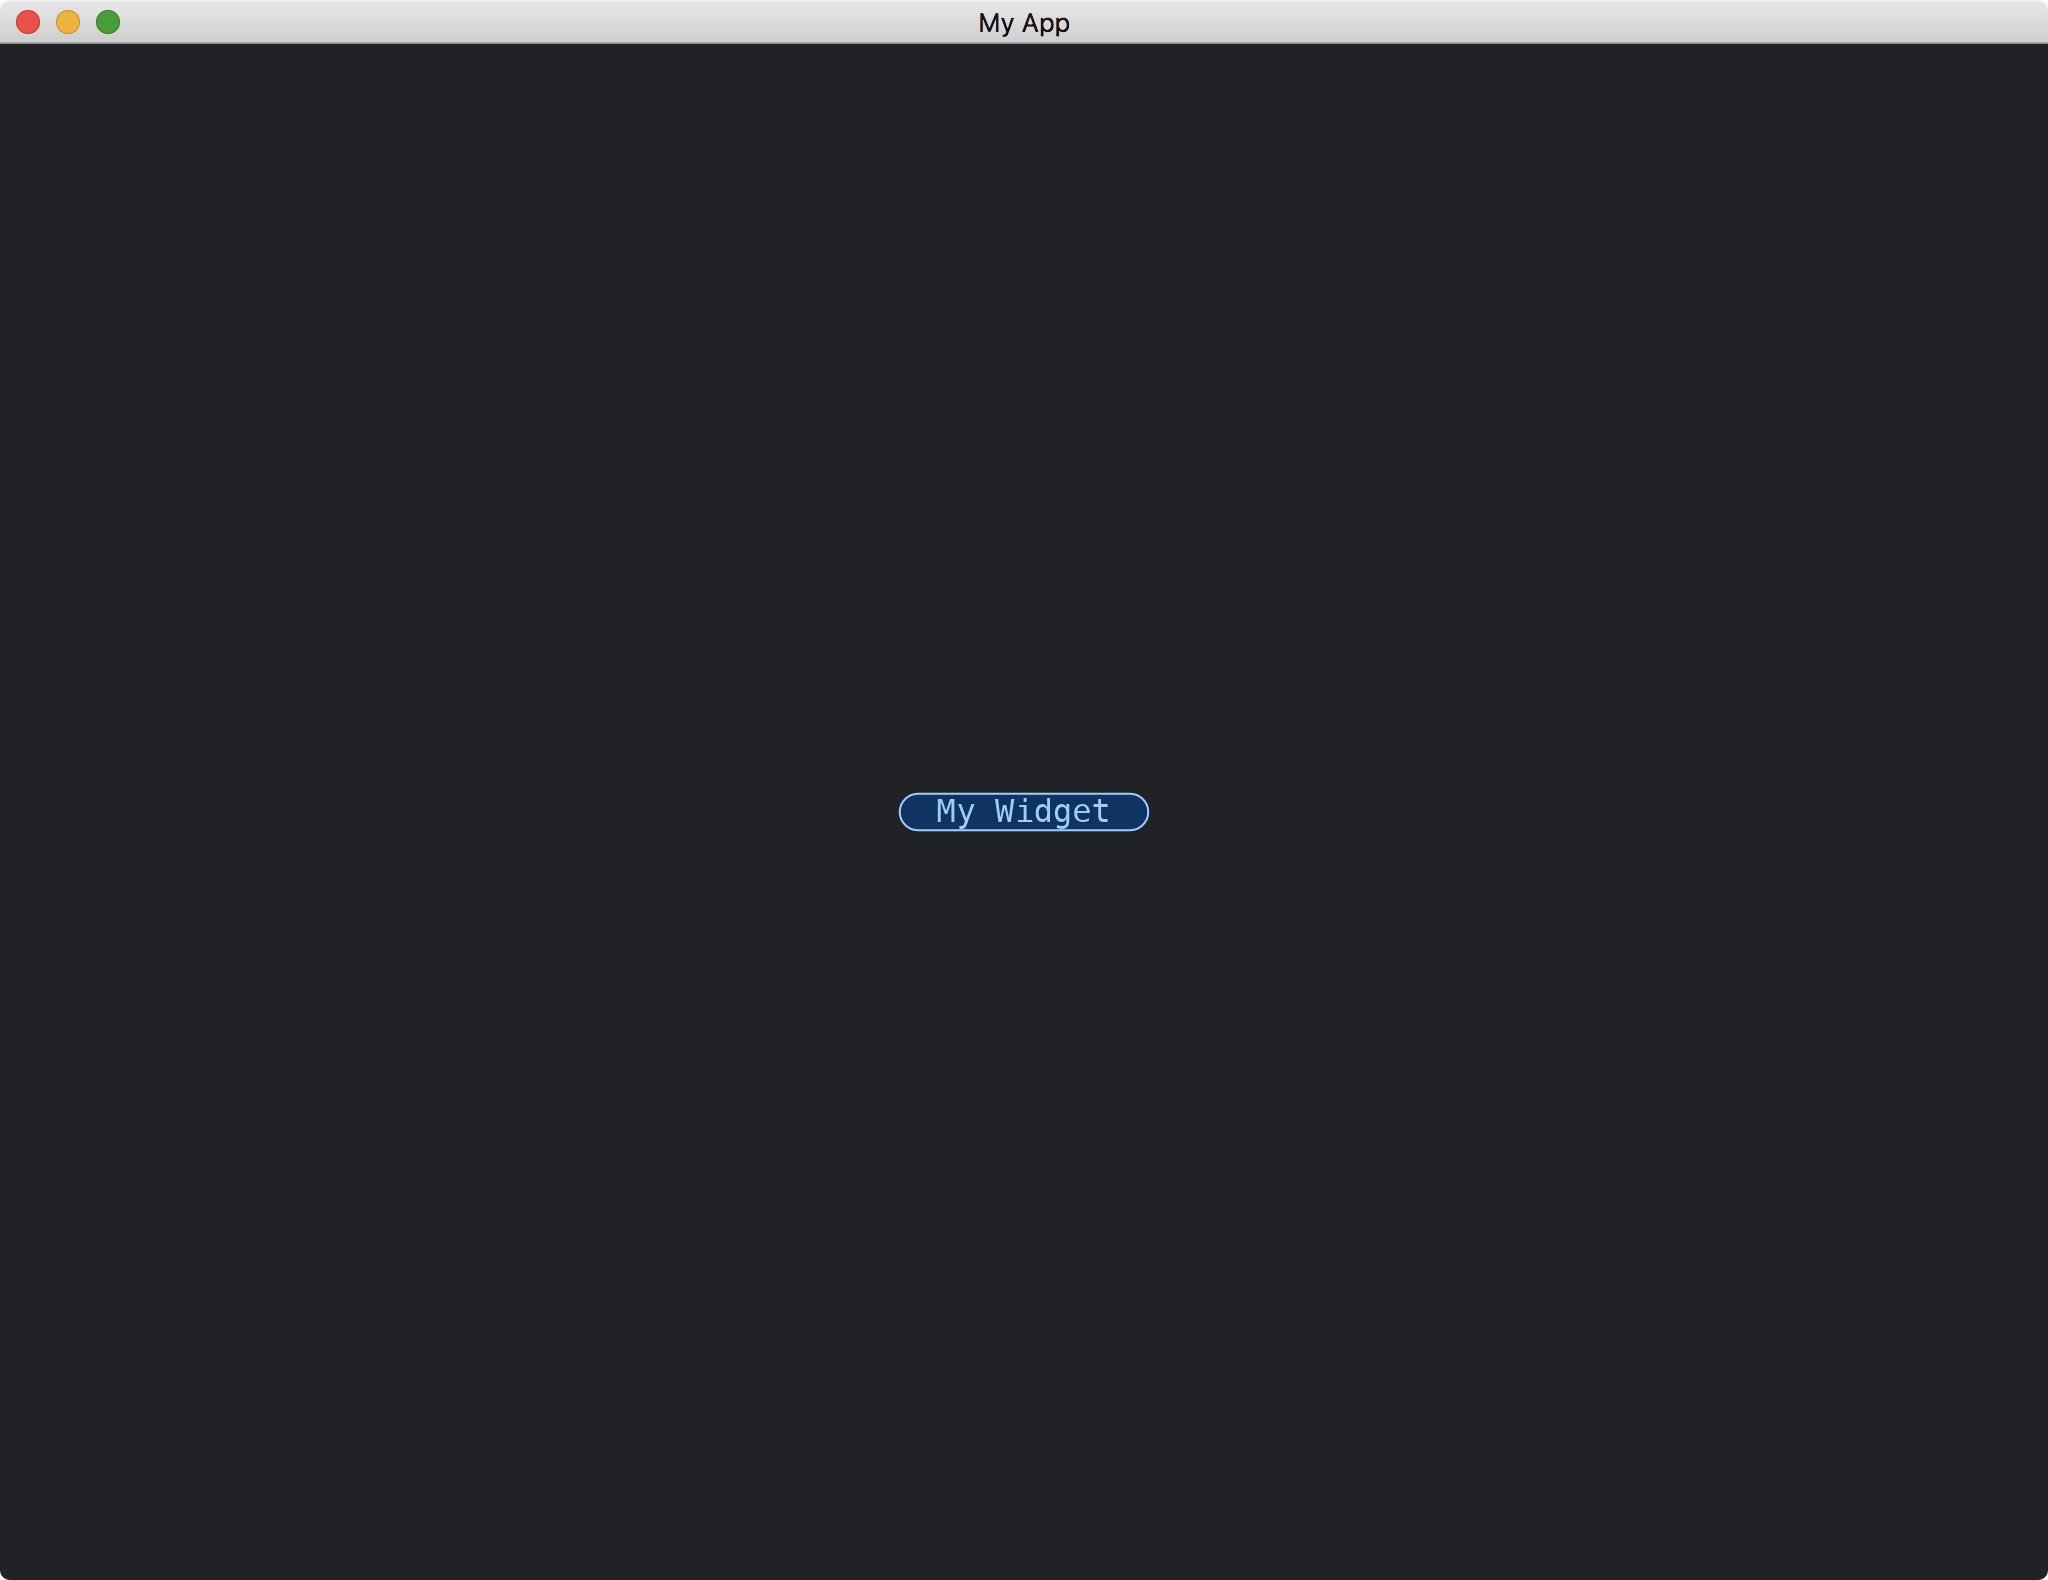
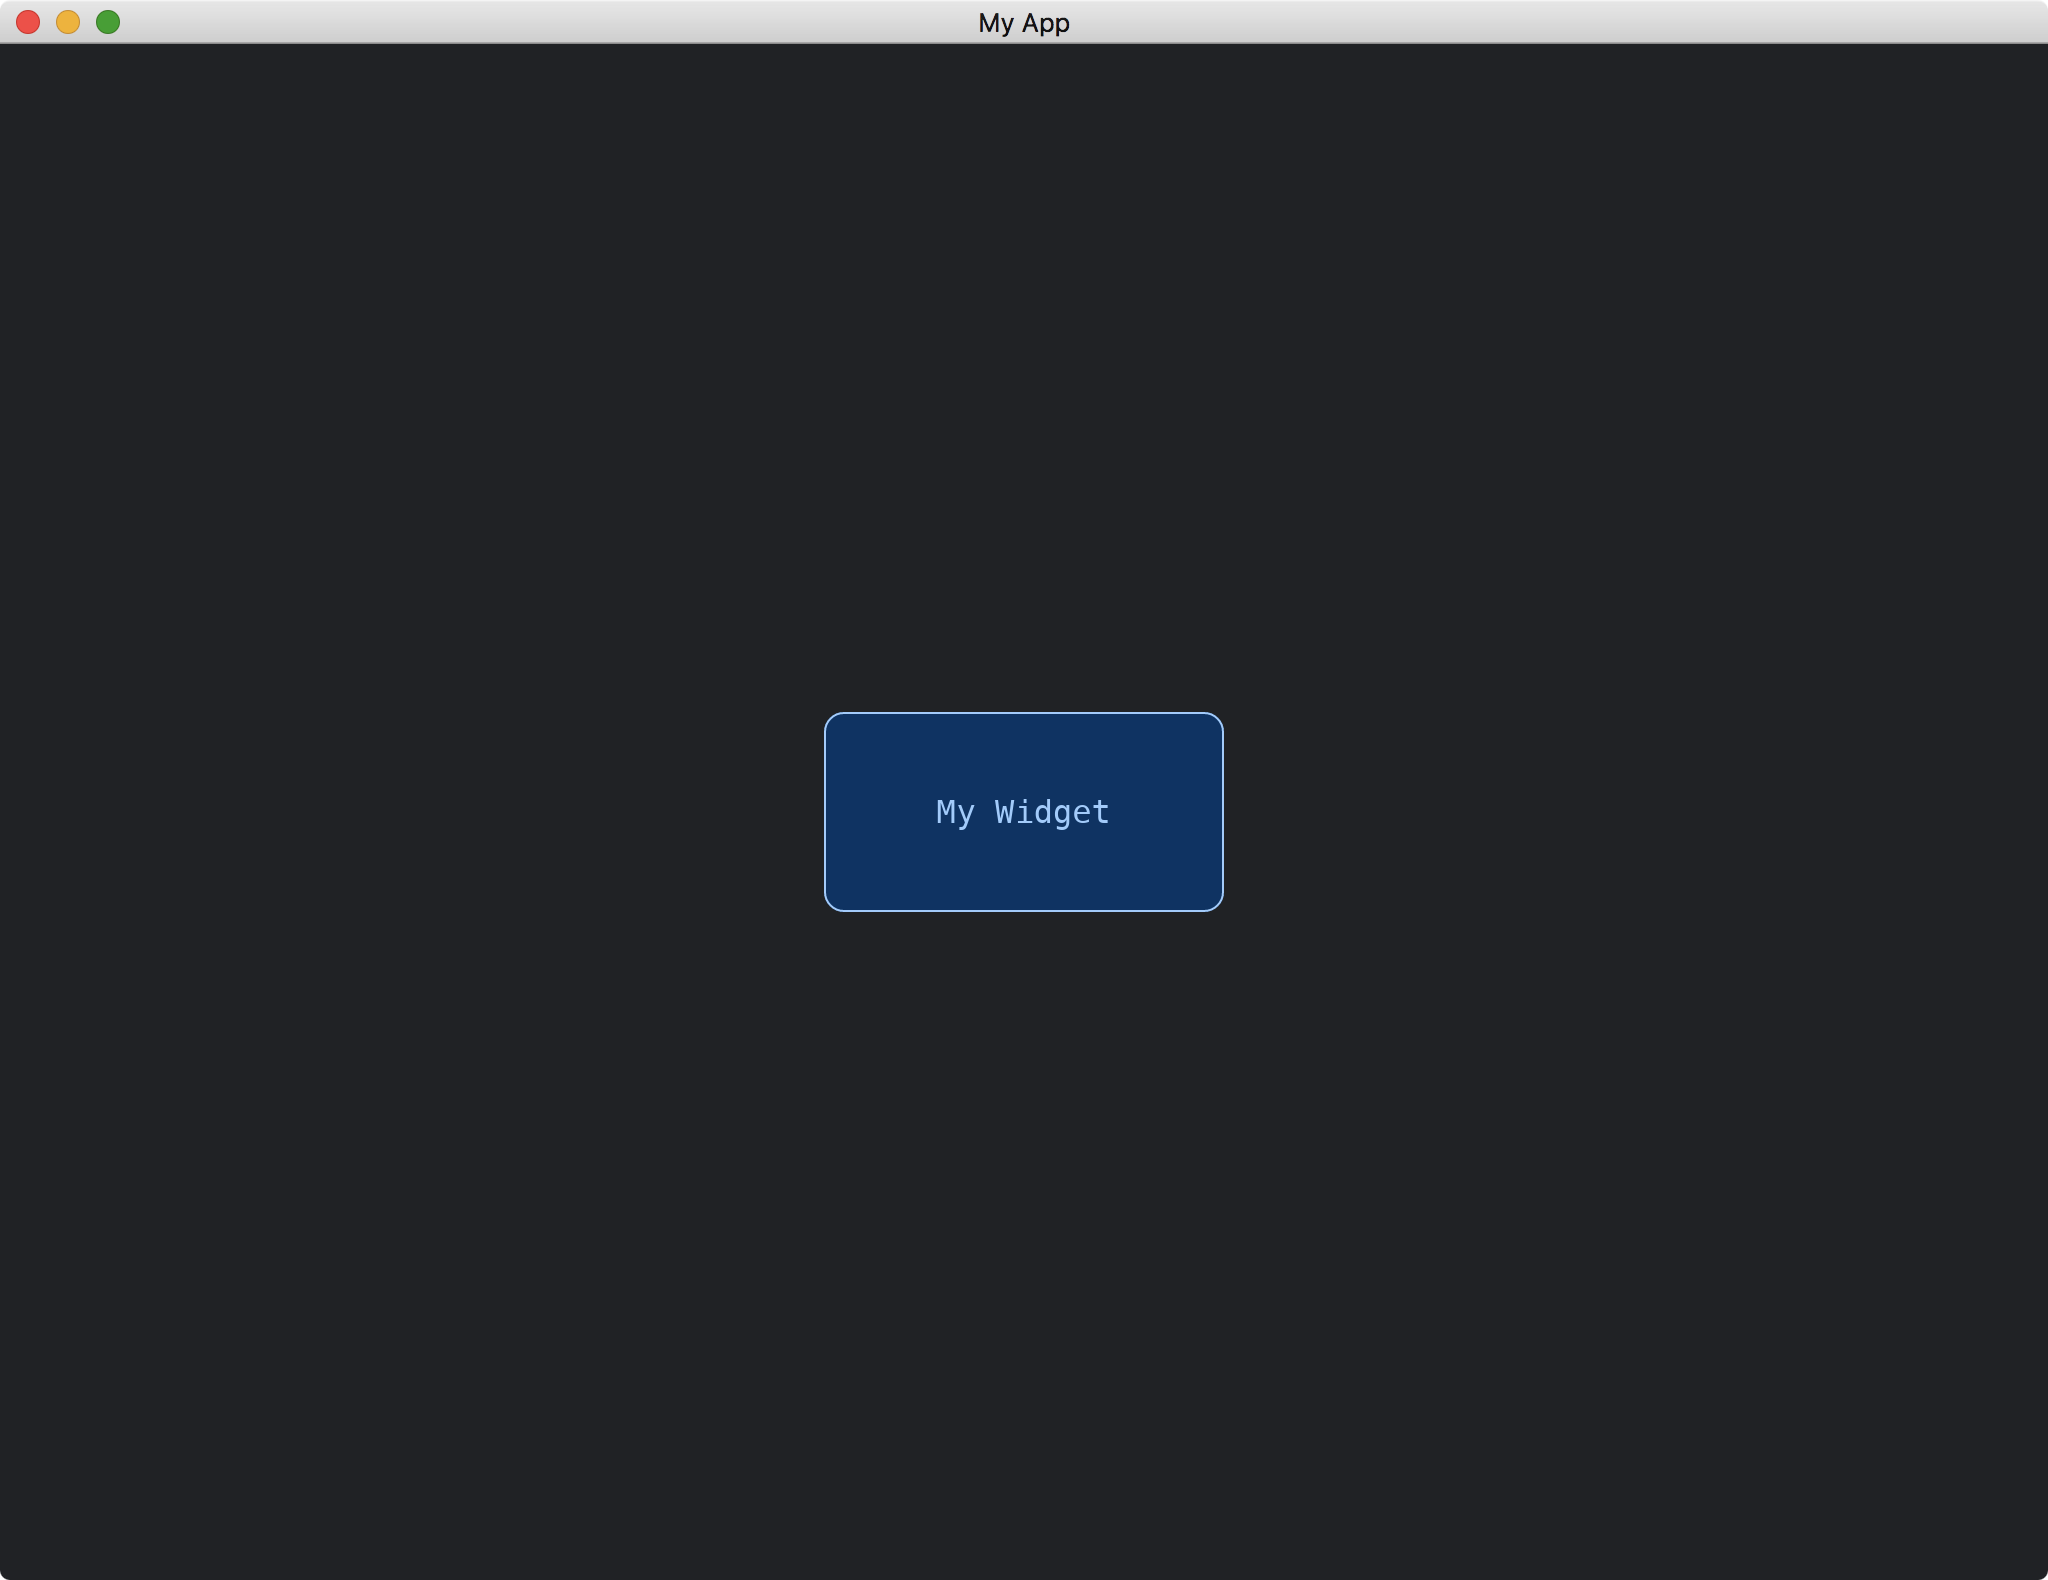
Fix an error for texts in widgets

Changed region(s): [[0.375, 0.4342, 0.625, 0.5892]]

diff --git a/tutorial/texts_in_widgets.md b/tutorial/texts_in_widgets.md
@@ -1,7 +1,5 @@
 # Texts In Widgets
 
-(This page of tutorial does not work. We are trying to fix it.)
-
 In addition to draw a [Quad](https://docs.rs/iced/latest/iced/advanced/renderer/struct.Quad.html), we can also draw texts in our widgets.
 
 For example, suppose we would like to draw a string slice named `CONTENT`.
@@ -18,74 +16,56 @@ impl MyWidgetWithText {
 }
 ```
 
-We use the build-in [draw](https://docs.rs/iced/latest/iced/widget/text/fn.draw.html) function to draw the text.
+We use the [Renderer](https://docs.rs/iced/latest/iced/advanced/text/trait.Renderer.html)'s [fill_text](https://docs.rs/iced/latest/iced/advanced/text/trait.Renderer.html#tymethod.fill_text) method to draw the text.
 
 ```rust
 fn draw(
     &self,
     _state: &Tree,
     renderer: &mut Renderer,
-    _theme: &Renderer::Theme,
-    style: &renderer::Style,
+    _theme: &Theme,
+    _style: &renderer::Style,
     layout: Layout<'_>,
     _cursor: mouse::Cursor,
-    _viewport: &Rectangle,
+    viewport: &Rectangle,
 ) {
-    renderer.fill_quad(
-        Quad {
-            bounds: layout.bounds(),
-            border_radius: 10.0.into(),
-            border_width: 1.0,
-            border_color: Color::from_rgb(0.6, 0.8, 1.0),
-        },
-        Color::from_rgb(0.0, 0.2, 0.4),
-    );
+    // ...
 
-    iced::widget::text::draw(
-        renderer,
-        style,
-        layout,
-        Self::CONTENT,
-        None,
-        Default::default(),
-        None,
-        iced::widget::text::Appearance {
-            color: Some(Color::from_rgb(0.6, 0.8, 1.0)),
+    let bounds = layout.bounds();
+
+    renderer.fill_text(
+        Text {
+            content: Self::CONTENT,
+            bounds: bounds.size(),
+            size: renderer.default_size(),
+            line_height: LineHeight::default(),
+            font: renderer.default_font(),
+            horizontal_alignment: Horizontal::Center,
+            vertical_alignment: Vertical::Center,
+            shaping: Shaping::default(),
         },
-        alignment::Horizontal::Center,
-        alignment::Vertical::Center,
-        Default::default(),
+        bounds.center(),
+        Color::from_rgb(0.6, 0.8, 1.0),
+        *viewport,
     );
 }
 ```
 
-The [draw](https://docs.rs/iced/latest/iced/widget/text/fn.draw.html) function needs the `Renderer` to implement [iced::advanced::text::Renderer](https://docs.rs/iced/latest/iced/advanced/text/trait.Renderer.html).
+The [fill_text](https://docs.rs/iced/latest/iced/advanced/text/trait.Renderer.html#tymethod.fill_text) method needs the `Renderer` type to implement [iced::advanced::text::Renderer](https://docs.rs/iced/latest/iced/advanced/text/trait.Renderer.html).
 Thus we have to require this in our [Widget](https://docs.rs/iced/latest/iced/advanced/widget/trait.Widget.html) implementation.
 
 ```rust
-impl<Message, Renderer> Widget<Message, Renderer> for MyWidgetWithText
+impl<Message, Renderer> Widget<Message, Theme, Renderer> for MyWidgetWithText
 where
     Renderer: iced::advanced::Renderer + iced::advanced::text::Renderer,
 ```
 
-Furthermore, we can use the [Text](https://docs.rs/iced/latest/iced/widget/type.Text.html) widget to help us determining the [layout](https://docs.rs/iced/latest/iced/advanced/widget/trait.Widget.html#tymethod.layout) of our widget.
+Since the requirement of the `Renderer` type is changed, we have to change the requirement in `From<MyWidgetWithText>` for [Element](https://docs.rs/iced/latest/iced/type.Element.html), too.
 
 ```rust
-fn layout(&self, renderer: &Renderer, limits: &layout::Limits) -> layout::Node {
-    let text = iced::widget::Text::new(Self::CONTENT);
-    let text = &text as &dyn Widget<Message, Renderer>;
-
-    text.layout(renderer, limits)
-}
-```
-
-This require the `Renderer` to have an associated type `Theme` that implements [iced::widget::text::StyleSheet](https://docs.rs/iced/latest/iced/widget/text/trait.StyleSheet.html).
-
-```rust
-impl<Message, Renderer> Widget<Message, Renderer> for MyWidgetWithText
+impl<'a, Message, Renderer> From<MyWidgetWithText> for Element<'a, Message, Theme, Renderer>
 where
     Renderer: iced::advanced::Renderer + iced::advanced::text::Renderer,
-    Renderer::Theme: iced::widget::text::StyleSheet,
 ```
 
 The full code is as follows:
@@ -96,11 +76,14 @@ use iced::{
         layout, mouse,
         renderer::{self, Quad},
         widget::Tree,
-        Layout, Widget,
+        Layout, Text, Widget,
     },
-    alignment,
-    widget::container,
-    Color, Element, Length, Rectangle, Sandbox, Settings,
+    alignment::{Horizontal, Vertical},
+    widget::{
+        container,
+        text::{LineHeight, Shaping},
+    },
+    Border, Color, Element, Length, Rectangle, Sandbox, Settings, Shadow, Size, Theme,
 };
 
 fn main() -> iced::Result {
@@ -135,75 +118,79 @@ impl Sandbox for MyApp {
 struct MyWidgetWithText;
 
 impl MyWidgetWithText {
-    const CONTENT: &'static str = "  My Widget  ";
+    const CONTENT: &'static str = "My Widget";
 
     fn new() -> Self {
         Self
     }
 }
 
-impl<Message, Renderer> Widget<Message, Renderer> for MyWidgetWithText
+impl<Message, Renderer> Widget<Message, Theme, Renderer> for MyWidgetWithText
 where
     Renderer: iced::advanced::Renderer + iced::advanced::text::Renderer,
-    Renderer::Theme: iced::widget::text::StyleSheet,
 {
-    fn width(&self) -> Length {
-        Length::Shrink
+    fn size(&self) -> Size<Length> {
+        Size {
+            width: Length::Shrink,
+            height: Length::Shrink,
+        }
     }
 
-    fn height(&self) -> Length {
-        Length::Shrink
-    }
-
-    fn layout(&self, renderer: &Renderer, limits: &layout::Limits) -> layout::Node {
-        let text = iced::widget::Text::new(Self::CONTENT);
-        let text = &text as &dyn Widget<Message, Renderer>;
-
-        text.layout(renderer, limits)
+    fn layout(
+        &self,
+        _tree: &mut Tree,
+        _renderer: &Renderer,
+        _limits: &layout::Limits,
+    ) -> layout::Node {
+        layout::Node::new([200, 100].into())
     }
 
     fn draw(
         &self,
         _state: &Tree,
         renderer: &mut Renderer,
-        _theme: &Renderer::Theme,
-        style: &renderer::Style,
+        _theme: &Theme,
+        _style: &renderer::Style,
         layout: Layout<'_>,
         _cursor: mouse::Cursor,
-        _viewport: &Rectangle,
+        viewport: &Rectangle,
     ) {
         renderer.fill_quad(
             Quad {
                 bounds: layout.bounds(),
-                border_radius: 10.0.into(),
-                border_width: 1.0,
-                border_color: Color::from_rgb(0.6, 0.8, 1.0),
+                border: Border {
+                    color: Color::from_rgb(0.6, 0.8, 1.0),
+                    width: 1.0,
+                    radius: 10.0.into(),
+                },
+                shadow: Shadow::default(),
             },
             Color::from_rgb(0.0, 0.2, 0.4),
         );
 
-        iced::widget::text::draw(
-            renderer,
-            style,
-            layout,
-            Self::CONTENT,
-            None,
-            Default::default(),
-            None,
-            iced::widget::text::Appearance {
-                color: Some(Color::from_rgb(0.6, 0.8, 1.0)),
+        let bounds = layout.bounds();
+
+        renderer.fill_text(
+            Text {
+                content: Self::CONTENT,
+                bounds: bounds.size(),
+                size: renderer.default_size(),
+                line_height: LineHeight::default(),
+                font: renderer.default_font(),
+                horizontal_alignment: Horizontal::Center,
+                vertical_alignment: Vertical::Center,
+                shaping: Shaping::default(),
             },
-            alignment::Horizontal::Center,
-            alignment::Vertical::Center,
-            Default::default(),
+            bounds.center(),
+            Color::from_rgb(0.6, 0.8, 1.0),
+            *viewport,
         );
     }
 }
 
-impl<'a, Message, Renderer> From<MyWidgetWithText> for Element<'a, Message, Renderer>
+impl<'a, Message, Renderer> From<MyWidgetWithText> for Element<'a, Message, Theme, Renderer>
 where
     Renderer: iced::advanced::Renderer + iced::advanced::text::Renderer,
-    Renderer::Theme: iced::widget::text::StyleSheet,
 {
     fn from(widget: MyWidgetWithText) -> Self {
         Self::new(widget)

diff --git a/tutorial/widgets_with_children.md b/tutorial/widgets_with_children.md
@@ -283,6 +283,36 @@ where
 
 ![Widgets With Children](./pic/widgets_with_children.png)
 
+If `MyWidgetInner` receives events (i.e., implementing [on_event](https://docs.rs/iced/latest/iced/advanced/trait.Widget.html#method.on_event)), we have to call this [on_event](https://docs.rs/iced/latest/iced/advanced/trait.Widget.html#method.on_event) method from `MyWidgetOuter`'s [on_event](https://docs.rs/iced/latest/iced/advanced/trait.Widget.html#method.on_event) method.
+This ensures the [Event](https://docs.rs/iced/latest/iced/enum.Event.html) is passing from `MyWidgetOuter` to `MyWidgetInner`.
+
+```rust
+fn on_event(
+    &mut self,
+    state: &mut Tree,
+    event: Event,
+    layout: Layout<'_>,
+    cursor: mouse::Cursor,
+    renderer: &Renderer,
+    clipboard: &mut dyn Clipboard,
+    shell: &mut Shell<'_, Message>,
+    viewport: &Rectangle,
+) -> event::Status {
+    let inner_widget = &mut self.inner_widget as &mut dyn Widget<Message, Theme, Renderer>;
+
+    inner_widget.on_event(
+        state,
+        event,
+        layout.children().next().unwrap(),
+        cursor,
+        renderer,
+        clipboard,
+        shell,
+        viewport,
+    )
+}
+```
+
 :arrow_right:  Next: [Taking Any Children](./taking_any_children.md)
 
 :blue_book: Back: [Table of contents](./../README.md)

diff --git a/tutorial/custom_background.md b/tutorial/custom_background.md
@@ -54,18 +54,7 @@ fn draw(
     _cursor: mouse::Cursor,
     _viewport: &Rectangle,
 ) {
-    renderer.fill_quad(
-        Quad {
-            bounds: layout.bounds(),
-            border: Border {
-                color: Color::from_rgb(1.0, 0.66, 0.6),
-                width: 1.0,
-                radius: 10.0.into(),
-            },
-            shadow: Shadow::default(),
-        },
-        Color::BLACK,
-    );
+    // ...
 
     iced::widget::image::draw(
         renderer,

diff --git a/tutorial/mouse_pointer_over_widgets.md b/tutorial/mouse_pointer_over_widgets.md
@@ -130,7 +130,6 @@ where
 impl<'a, Message, Renderer> From<MyWidget> for Element<'a, Message, Theme, Renderer>
 where
     Renderer: iced::advanced::Renderer,
-    Message: Clone + 'a,
 {
     fn from(widget: MyWidget) -> Self {
         Self::new(widget)
